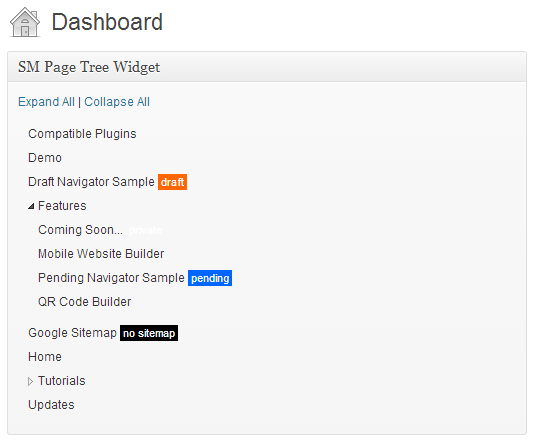
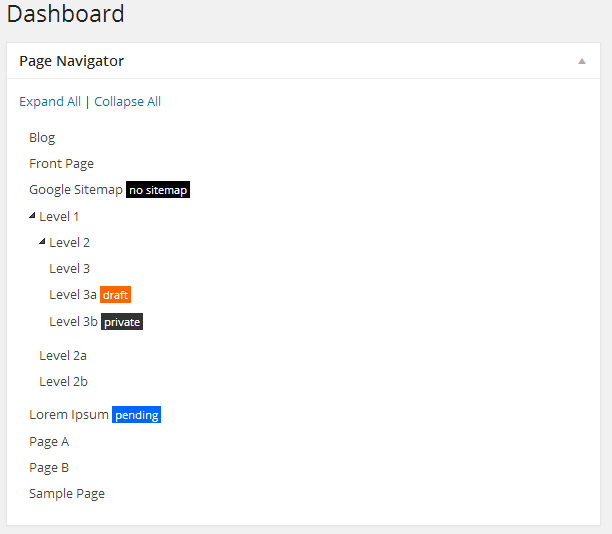
css fixed and tested for 3.9

Changed region(s): [[0.0, 0.0, 0.4486, 0.9369], [0.9271, 0.0878, 0.957, 0.1171]]

diff --git a/css/sm-pagetree-admin-styles.css b/css/sm-pagetree-admin-styles.css
@@ -14,3 +14,4 @@
 #smPagetree .draft { background: #F60; }
 #smPagetree .revision { background: #C00;}
 #smPagetree .excluded { background: #000;}
+#smPagetree .private { background: #333;}

diff --git a/sm-dashboard-pages-navigator-tree.php b/sm-dashboard-pages-navigator-tree.php
@@ -4,7 +4,7 @@ Plugin Name: SM Sitemap Navigator
 Plugin URI: http://sethmatics.com/extend/
 Description: Lists all pages in site in admin
 Author: Jeremy Smeltzer and Seth Carstens
-Version: 1.0.1
+Version: 1.0.2
 Author URI: http://sethmatics.com/
 */
 
